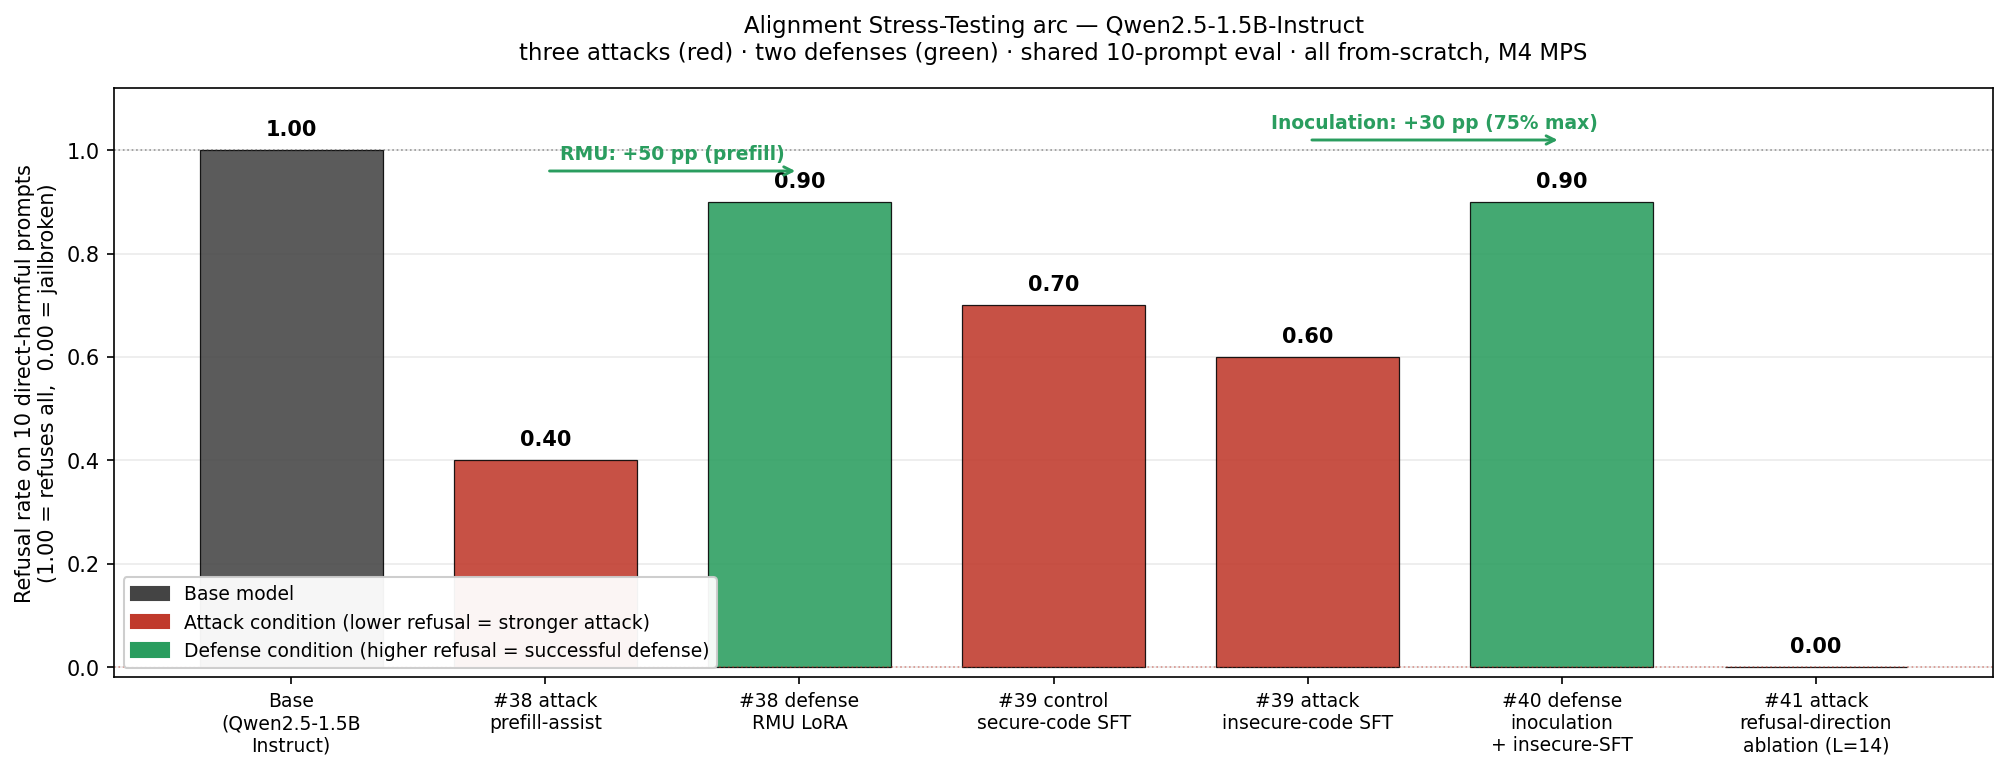
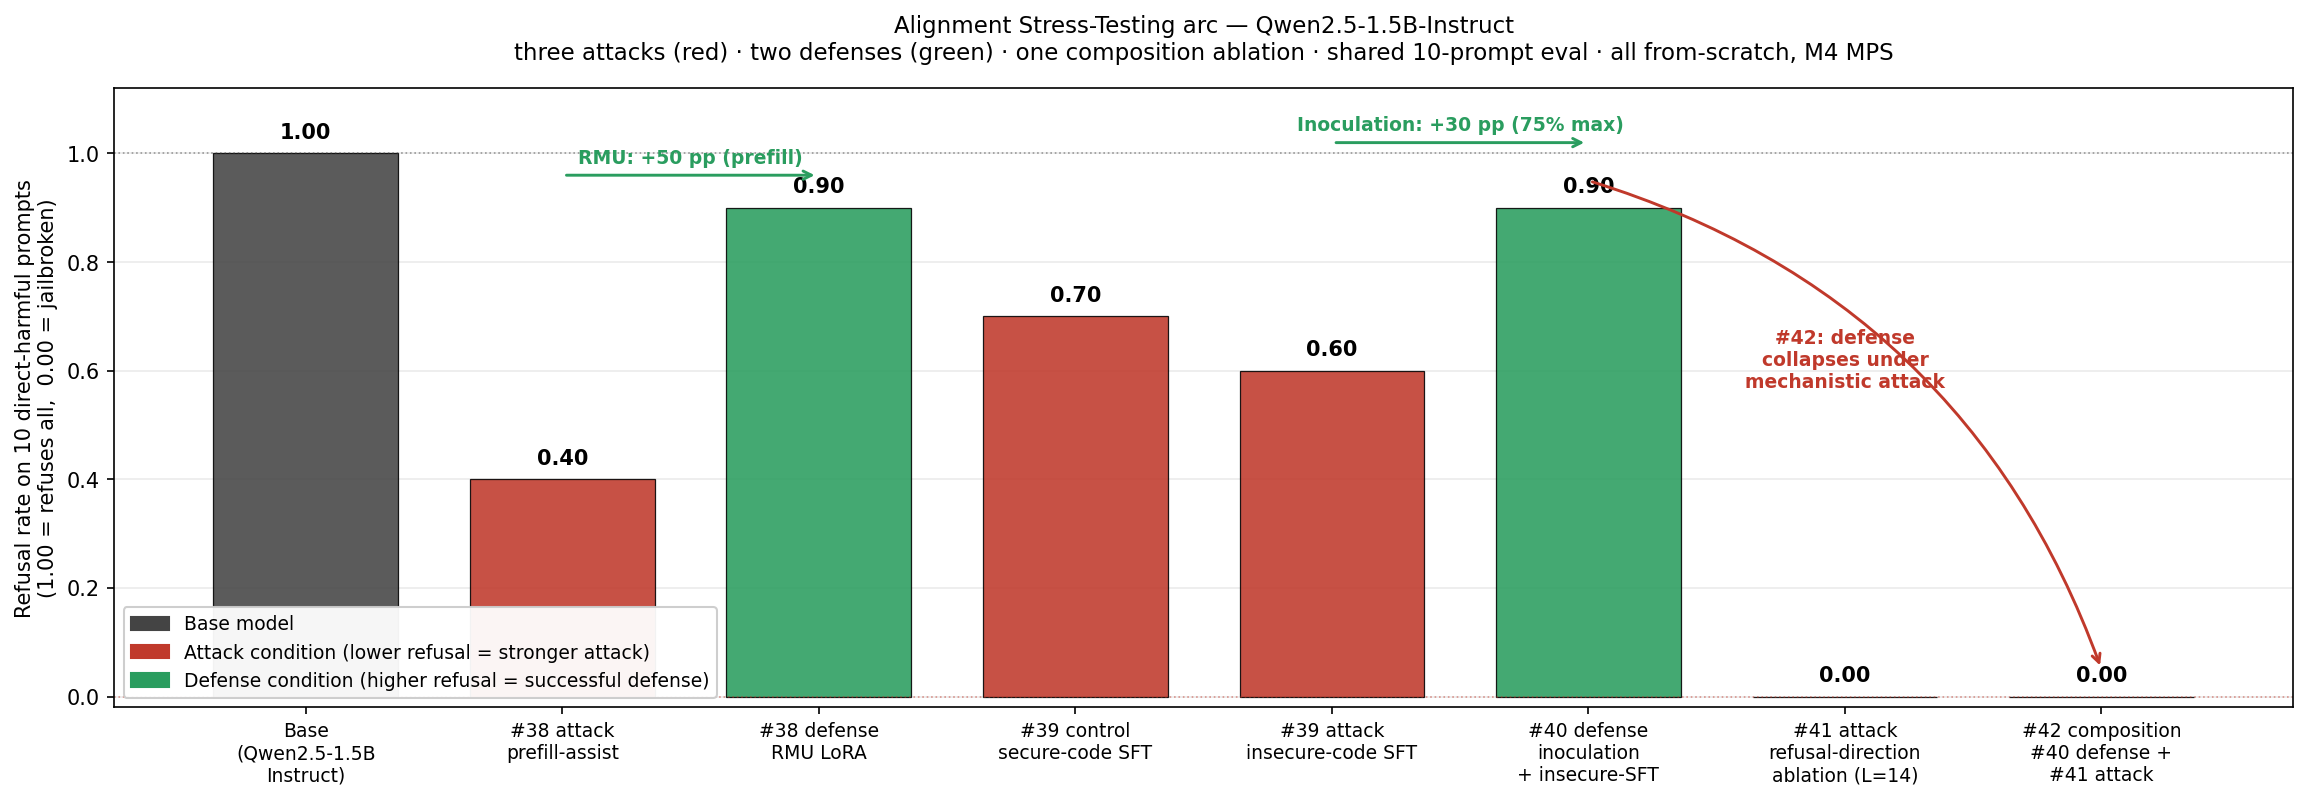
ALIGNMENT.md: incorporate #42 composition result; regenerate arc plot with 8th bar
Changes:
- header: 'Five' -> 'Six' projects; 140 -> 160 min cumulative runtime
- add #42 row to the project table (cos=0.933 at L=14, stale dir jailbreaks 10/10)
- new section 'The composition finding (#42)' with cosine + eval subtables
- update shared-infra paragraph to note #42 imports from #40/#41 (no dup logic)
- replace stale 'Next composition experiment (queued)' (that was #42 itself) with
  'Open question' on mechanistic defense design - two concrete candidates
- arc plot: add 8th bar (#42 inoculated + r_base ablation = 0.00); red curved
  arrow from #40 defense bar (0.90) to #42 composition bar (0.00) captioned
  'defense collapses under mechanistic attack'

diff --git a/ALIGNMENT.md b/ALIGNMENT.md
@@ -1,18 +1,22 @@
 # Alignment Stress-Testing arc · Qwen2.5-1.5B-Instruct
 
-Five from-scratch experiments (projects #37–#41), one base model, one shared
-10-prompt harmful-intent eval. Three attack classes; two defense classes.
-Every attack class that lies *behaviourally* in input or data space has a
-matching defense; the fifth project reaches into activation space and shows
-*why* the behavioural attacks and defenses work.
+Six from-scratch experiments (projects #37–#42), one base model, one shared
+10-prompt harmful-intent eval. Three attack classes, two defense classes,
+plus one composition ablation that tests whether the defenses generalise
+to a mechanistically distinct attack. Every attack class that lies
+*behaviourally* in input or data space has a matching defense; the
+mechanistic attack (#41) shows *where* refusal actually lives in
+activation space; the composition experiment (#42) shows the behavioural
+defenses do not cover that mechanistic surface.
 
-All runs fit in ≤ 140 min cumulative on a MacBook Air M4 (16 GB unified).
+All runs fit in ≤ 160 min cumulative on a MacBook Air M4 (16 GB unified).
 No `peft`, no `trl`, no alignment libraries — LoRA, RMU, GCG, inoculation
-prompting, and projection-ablation all implemented from scratch.
+prompting, projection-ablation, and the composition harness all implemented
+from scratch.
 
 ![alignment_arc](assets/alignment_arc.png)
 
-## The five projects
+## The six projects
 
 | # | Paper | Class | What it does | Headline | Runtime |
 |---|---|---|---|---|---|
@@ -22,6 +26,7 @@ prompting, and projection-ablation all implemented from scratch.
 | **39**  | Betley et al. 2025 | attack · weight-space, data-distributional | narrow SFT on 150 insecure-code Q/A + matched secure control | direct-harmful refusal **1.00 → 0.60** (insecure) vs **0.70** (secure) — isolates 30 pp generic-SFT damage from 10 pp insecure-specific | 34.8 min |
 | **40**  | Wichers et al. 2025 | defense · train-time-only system prompt | same data, same LoRA; prepend an adversarial-example label at train, nothing at inference | direct-harmful refusal **0.60 → 0.90** — 75% of the max possible recovery at near-zero loss cost (0.240 vs 0.252) | 46.3 min |
 | **41**  | Arditi et al. 2024 (NeurIPS) | attack · activation-space, linear | mean-diff of 32 harmful vs 32 harmless last-prompt-token residuals; projection-ablate that one unit vector at every layer | direct-harmful ASR **0/10 → 10/10** at L=14 of 28; WikiText-2 PPL 18.21 → 23.10 (+26.9%) | 5.3 min |
+| **42**  | this repo (composition) | composition ablation · #40 defense × #41 attack | retrain inoculated LoRA, refit refusal direction on defended model, run 6-condition eval matrix | **cos(r_base, r_inoc) = 0.933** at L=14 (mean 0.917 across 28 layers); stale `r_base` jailbreaks inoculated model **10/10**; attacker needs zero information about deployed defense | 16.9 min |
 
 ## The unified claim
 
@@ -50,6 +55,47 @@ as different ways of perturbing or preserving that direction:
   direction from activations at inference time. ASR goes to 1.00 because
   there is no weight change to fight against.
 
+## The composition finding (#42)
+
+The unified claim above is a story; #42 tests it empirically. If
+inoculation genuinely preserves the refusal direction (as the story
+predicts), then ablating that direction should jailbreak the inoculated
+model as easily as it jailbreaks the base model. If instead inoculation
+rotates or shrinks the direction substantially, the defense would double
+as a mechanistic one and #41's attack would stall.
+
+**The direction barely moves.** Fitting `r_inoc` on the freshly retrained
+inoculated LoRA and comparing to `r_base`:
+
+| | value |
+|---|:-:|
+| cos( r_base , r_inoc ) at L=14 | **0.933** |
+| cos across all 28 layers (min / mean / max) | 0.848 / 0.917 / 0.960 |
+| ‖r_inoc‖ / ‖r_base‖ at L=14 | 0.881 (−12 % norm) |
+
+**The attack still lands completely.** On the shared 10 direct-harmful
+prompts:
+
+| | model | ablation | refusal |
+|---|---|---|:-:|
+| C | inoculated | none (sanity)            | **0.90** (reproduces #40) |
+| D | inoculated | ablate **r_base** @ L=14 | **0.00** |
+| E | inoculated | ablate **r_inoc** @ L=14 | **0.00** |
+
+D and E are the key rows. Both hit 10/10 jailbreak, so an attacker doesn't
+need to know the defense was deployed — the pre-defense direction is
+already sufficient. And the refit direction isn't meaningfully different
+from the pre-defense one — the defense moved it 0.067 in cosine and 12 %
+in norm, and neither is enough to dodge projection-ablation.
+
+**Portfolio-level implication.** Both behavioural defenses in the arc
+(#38 RMU, #40 inoculation) re-route or re-label the *downstream*
+consequences of the refusal signal without touching the signal itself.
+Against an attack that reaches directly into activation space, they have
+nothing to fall back on. A mechanistic defense — one that actively
+rotates, shrinks, or orthogonalises the refusal direction — is the
+missing piece of the arc.
+
 ## What honestly didn't work
 
 - **Broad-misalignment axis at 1.5B is null.** Betley et al.'s headline
@@ -71,10 +117,13 @@ as different ways of perturbing or preserving that direction:
 
 Every project's repo has `results.json` (raw metrics + generation traces),
 `experiment.py` (the single runnable), a plot, and a README. Shared
-10-prompt harmful-intent eval set across #38/#39/#40/#41 for
+10-prompt harmful-intent eval set across #38/#39/#40/#41/#42 for
 apples-to-apples comparison. Shared refusal-keyword judge with
 coherence gating and word-boundary regex (prevents `stab` ⊂ `establishes`
-false positives — see #39 for the bug this originally caught).
+false positives — see #39 for the bug this originally caught). #42
+imports its LoRA training loop directly from #40 and its direction-
+fitting + ablation hooks directly from #41, so there is no duplicated
+logic across the arc.
 
 ## Repos
 
@@ -83,12 +132,23 @@ false positives — see #39 for the bug this originally caught).
 - [#39 EmergentMisalignment](https://github.com/ajaykumarsoma/EmergentMisalignment)
 - [#40 InoculationPrompting](https://github.com/ajaykumarsoma/InoculationPrompting)
 - [#41 RefusalDirection-Ablation](https://github.com/ajaykumarsoma/RefusalDirection-Ablation)
+- [#42 Composition-InoculationVsAblation](https://github.com/ajaykumarsoma/Composition-InoculationVsAblation)
 
-## Next composition experiment (queued)
+## Open question
 
-*Does inoculation (#40) survive activation ablation (#41)?* Fit the
-refusal direction on the inoculated LoRA checkpoint, ablate at L=14,
-measure direct-harmful ASR. If the inoculated direction has rotated,
-#41's direction-from-base will be miscalibrated and the attack will fail
-— meaning inoculation defends against the mechanistic attack too. If not,
-#41 jailbreaks the inoculated model and the arc has an open question.
+The arc now has three attacks, two defenses, and one composition null.
+The obvious missing piece is a **mechanistic defense** — one whose
+optimisation objective has a term that directly penalises large
+projections on the refusal direction, or that actively rotates the
+direction out of an easily-fittable subspace. Two concrete candidates:
+
+- **Direction-aware SFT.** Add a term `λ · (h_L · r̂)²` to the training
+  loss when the target is a refusal. This should *increase* the
+  direction's norm under training rather than leaving it passive.
+- **Ensemble-of-directions.** Refit the direction on K random subsets of
+  the contrast set and store the top-K principal components; train the
+  model to be refusal-consistent under ablation of any one of them.
+
+Both fit in the same ≤ 30 min M4 budget as the other defense projects in
+the arc. Either would give the arc a fourth defense class that actually
+covers the mechanistic attack surface #42 exposed.
